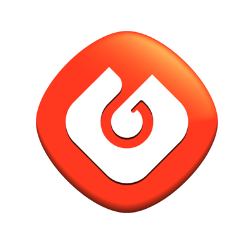
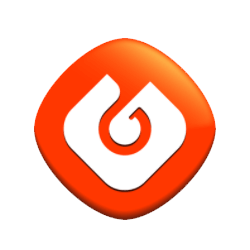
Production Preparations
- Brand Logos Added
- Head Information Refactored

Changed region(s): [[0.112, 0.112, 0.896, 0.896]]

diff --git a/nuxt.config.js b/nuxt.config.js
@@ -17,14 +17,27 @@ module.exports = {
             { charset: 'utf-8' },
             { name: 'viewport', content: 'width=device-width, initial-scale=1' },
             {
-            	hid: 'description',
-				name: 'description',
+            	hid: 'global',
+				name: 'GasTracker',
 				content: 'GasTracker'
-            }
+            },
+			{ name: 'apple-mobile-web-app-title', content: 'GasTracker' },
+			{ name: 'application-name', content: 'GasTracker' },
+			{ name: 'msapplication-TileColor', content: '#ffffff' },
+			{ name: 'theme-color', content: '#ffffff' },
         ],
-        link: [
-            { rel: 'stylesheet', href: 'https://fonts.googleapis.com/css?family=Raleway:300,400,700&display=swap'}
-        ]
+		link:[
+			{ rel:'apple-touch-icon', sizes:'180x180', href:"/apple-touch-icon.png"},
+			{ rel:'icon', type:'image/png', sizes:'32x32', href:"/favicon-32x32.png"},
+			{ rel:'icon', type:'image/png', sizes:'16x16', href:"/favicon-16x16.png"},
+			{ rel:'manifest', href:"/site.webmanifest"},
+			{ rel:'mask-icon', href:"/safari-pinned-tab.svg", color:"#eec149"},
+			{ rel: 'stylesheet', href: 'https://fonts.googleapis.com/css?family=Raleway:300,400,700&display=swap'}
+
+		],
+		noscript: [
+			{ innerHTML: 'Body No Scripts', body: true }
+		],
     },
     /*
     ** Customize the progress-bar color
@@ -42,7 +55,6 @@ module.exports = {
     buildModules: [
         // https://github.com/nuxt-community/dotenv-module
         '@nuxtjs/dotenv',
-		'@nuxtjs/google-analytics',
     ],
     /*
     ** Nuxt.js modules
@@ -56,6 +68,9 @@ module.exports = {
         'nuxt-fontawesome',
 		// Docs: https://www.npmjs.com/package/@nuxtjs/localtunnel
 		//'@nuxtjs/localtunnel',
+
+		// Google Tag Manager: https://github.com/nuxt-community/google-gtag-module
+		'@nuxtjs/google-gtag',
     ],
     /*
     ** Plugins to load before mounting the App
@@ -135,9 +150,19 @@ module.exports = {
         ],
     },
 
-	// Google Analytics Configuration
-	googleAnalytics: {
+	// Google Tag Manager Settings
+	'google-gtag': {
 		id: process.env.GA_ID,
+		config: {
+			anonymize_ip: true, // anonymize IP
+			send_page_view: false, // might be necessary to avoid duplicated page track on page reload
+			linker: {
+				domains: [process.env.URL]
+			}
+		},
+		debug: true, // enable to track in dev mode
+		disableAutoPageTrack: false, // disable if you don't want to track each page route with router.afterEach(...).
 	}
+
 
 }

diff --git a/layout/default.vue b/layout/default.vue
@@ -17,27 +17,4 @@
 
 </style>
 
-<script>
-    export default {
-        head: {
-            title: 'GasTracker🚀',
-            meta: [
-                { hid: 'description', name: 'description', content: 'GasTracker' },
-                { name: 'apple-mobile-web-app-title', content: 'GasTracker' },
-                { name: 'application-name', content: 'GasTracker' },
-                { name: 'msapplication-TileColor', content: '#ffffff' },
-                { name: 'theme-color', content: '#ffffff' },
-            ],
-			link:[
-				{ rel:'apple-touch-icon', sizes:'180x180', href:"/apple-touch-icon.png"},
-				{ rel:'icon', type:'image/png', sizes:'32x32', href:"/favicon-32x32.png"},
-				{ rel:'icon', type:'image/png', sizes:'16x16', href:"/favicon-16x16.png"},
-				{ rel:'manifest', href:"/site.webmanifest"},
-				{ rel:'mask-icon', href:"/safari-pinned-tab.svg", color:"#eec149"},
-			],
-            noscript: [
-                { innerHTML: 'Body No Scripts', body: true }
-            ],
-        }
-    }
-</script>
+

diff --git a/pages/legal/privacidade-e-cookies.vue b/pages/legal/privacidade-e-cookies.vue
@@ -7,6 +7,7 @@
 						<h2 class="text-center font-weight-bold mb-3">Privacidade e Cookies</h2>
 						<p>Este website utiliza cookies funcionais para garantir funcionalidades como o estado da sessão. Estes dados são eliminados ao fazer logout da mesma.</p>
 						<p>É utilizado o Google Analytics para dados estatisticos e analiticos da interação com o sistema. Não está ativada a funcionalidade "remarketing audiences" pelo que não há registos de navegação do utilizador antes ou após a utilização do website.</p>
+						<p>Nenhuma informação pessoal do utilizador é vendida ou transferida para fora do website. Não são enviados emails publicitários.</p>
 					</div>
 				</div>
 			</div>

diff --git a/pages/login.vue b/pages/login.vue
@@ -40,7 +40,7 @@
 								<span>Entrar</span>
 							</div>
 							<span class="f-gray lh-sm">
-								<small>Lorem ipsum dolor sit amet, consectetur adipisicing elit. Debitis deleniti enim necessitatibus nostrum officia officiis repellendus voluptate? Autem eum illo labore molestiae mollitia sit unde voluptas? Impedit iure reiciendis ullam!</small>
+								<small>Ao utilizar este website concorda com os <a href="/legal/termos-e-condicoes">Termos e Condições</a> e a <a href="/legal/privacidade-e-cookies">Política de Privacidade.</a></small>
 							</span>
 						</div>
 					</div>

diff --git a/pages/signup.vue b/pages/signup.vue
@@ -82,7 +82,7 @@
 								<span>Signup</span>
 							</div>
 							<span class="f-gray lh-sm">
-								<small>Lorem ipsum dolor sit amet, consectetur adipisicing elit. Debitis deleniti enim necessitatibus nostrum officia officiis repellendus voluptate? Autem eum illo labore molestiae mollitia sit unde voluptas? Impedit iure reiciendis ullam!</small>
+								<small>Ao utilizar este website concorda com os <a href="/legal/termos-e-condicoes">Termos e Condições</a> e a <a href="/legal/privacidade-e-cookies">Política de Privacidade.</a></small>
 							</span>
 						</div>
 					</div>

diff --git a/pages/dashboard.vue b/pages/dashboard.vue
@@ -181,6 +181,19 @@
 			},
 
 		},
+		head() {
+			return {
+				title: 'Dashboard',
+				meta: [
+					// hid is used as unique identifier. Do not use `vmid` for it as it will not work
+					{
+						hid: 'dashboard',
+						name: 'GasTracker Dashboard',
+						content: 'GasTracker Dashboard'
+					}
+				]
+			}
+		}
     }
 </script>
 

diff --git a/components/refuel-brands.vue b/components/refuel-brands.vue
@@ -1,7 +1,7 @@
 <template>
 	<div class="row justify-content-center mb-4">
 		<div class="col-4 mb-3 text-center" v-for="(option,index) in brands" :key="index">
-			<div class="btn-option"
+			<div class="btn-option mx-auto"
 				 @click="selectBrand(option.name, option.logo)"
 				 :class="{'active':brand===option.name}"
 			>

diff --git a/pages/refuels/add.vue b/pages/refuels/add.vue
@@ -1,6 +1,6 @@
 <template>
 	<ShortLayout>
-		<div slot="content" class="content-position mt-auto">
+		<div slot="content" class="content-position mt-auto my-sm-auto">
 			<div class="container-fluid">
 				<transition name="fade">
 					<div v-show="sending" class="loading-screen">

diff --git a/layouts/default.vue b/layouts/default.vue
@@ -7,3 +7,4 @@
 <style>
 
 </style>
+
